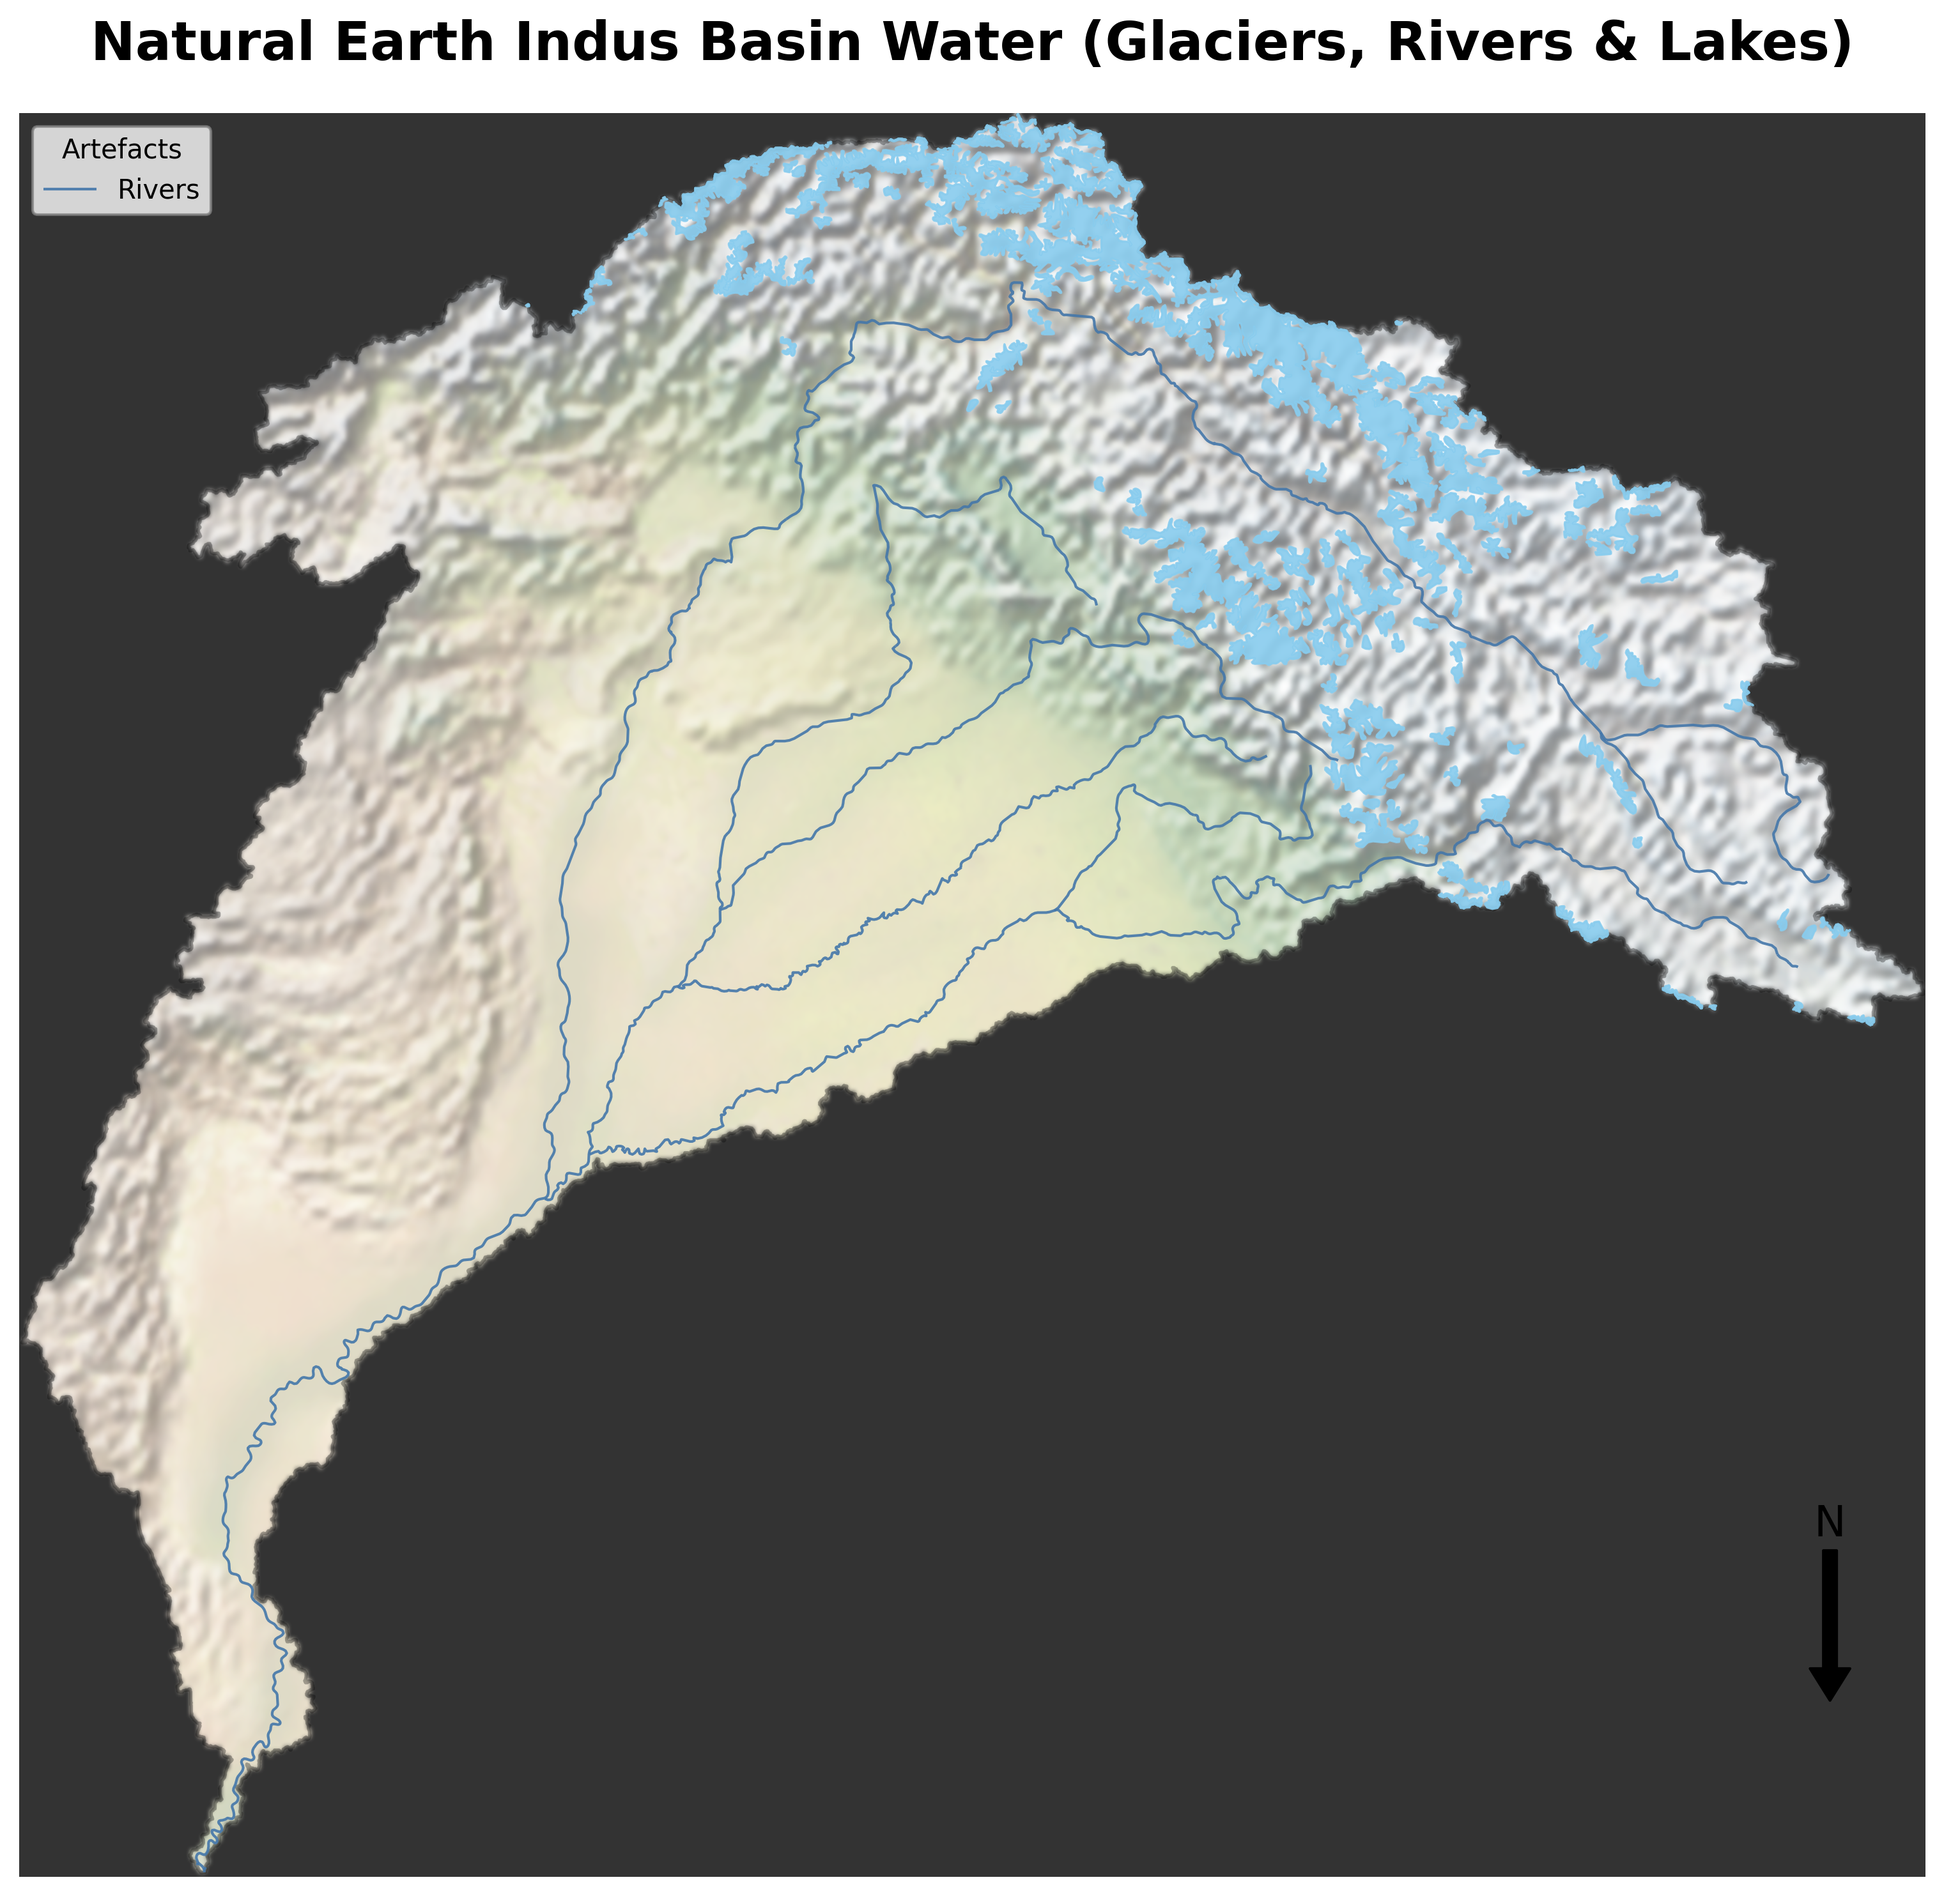
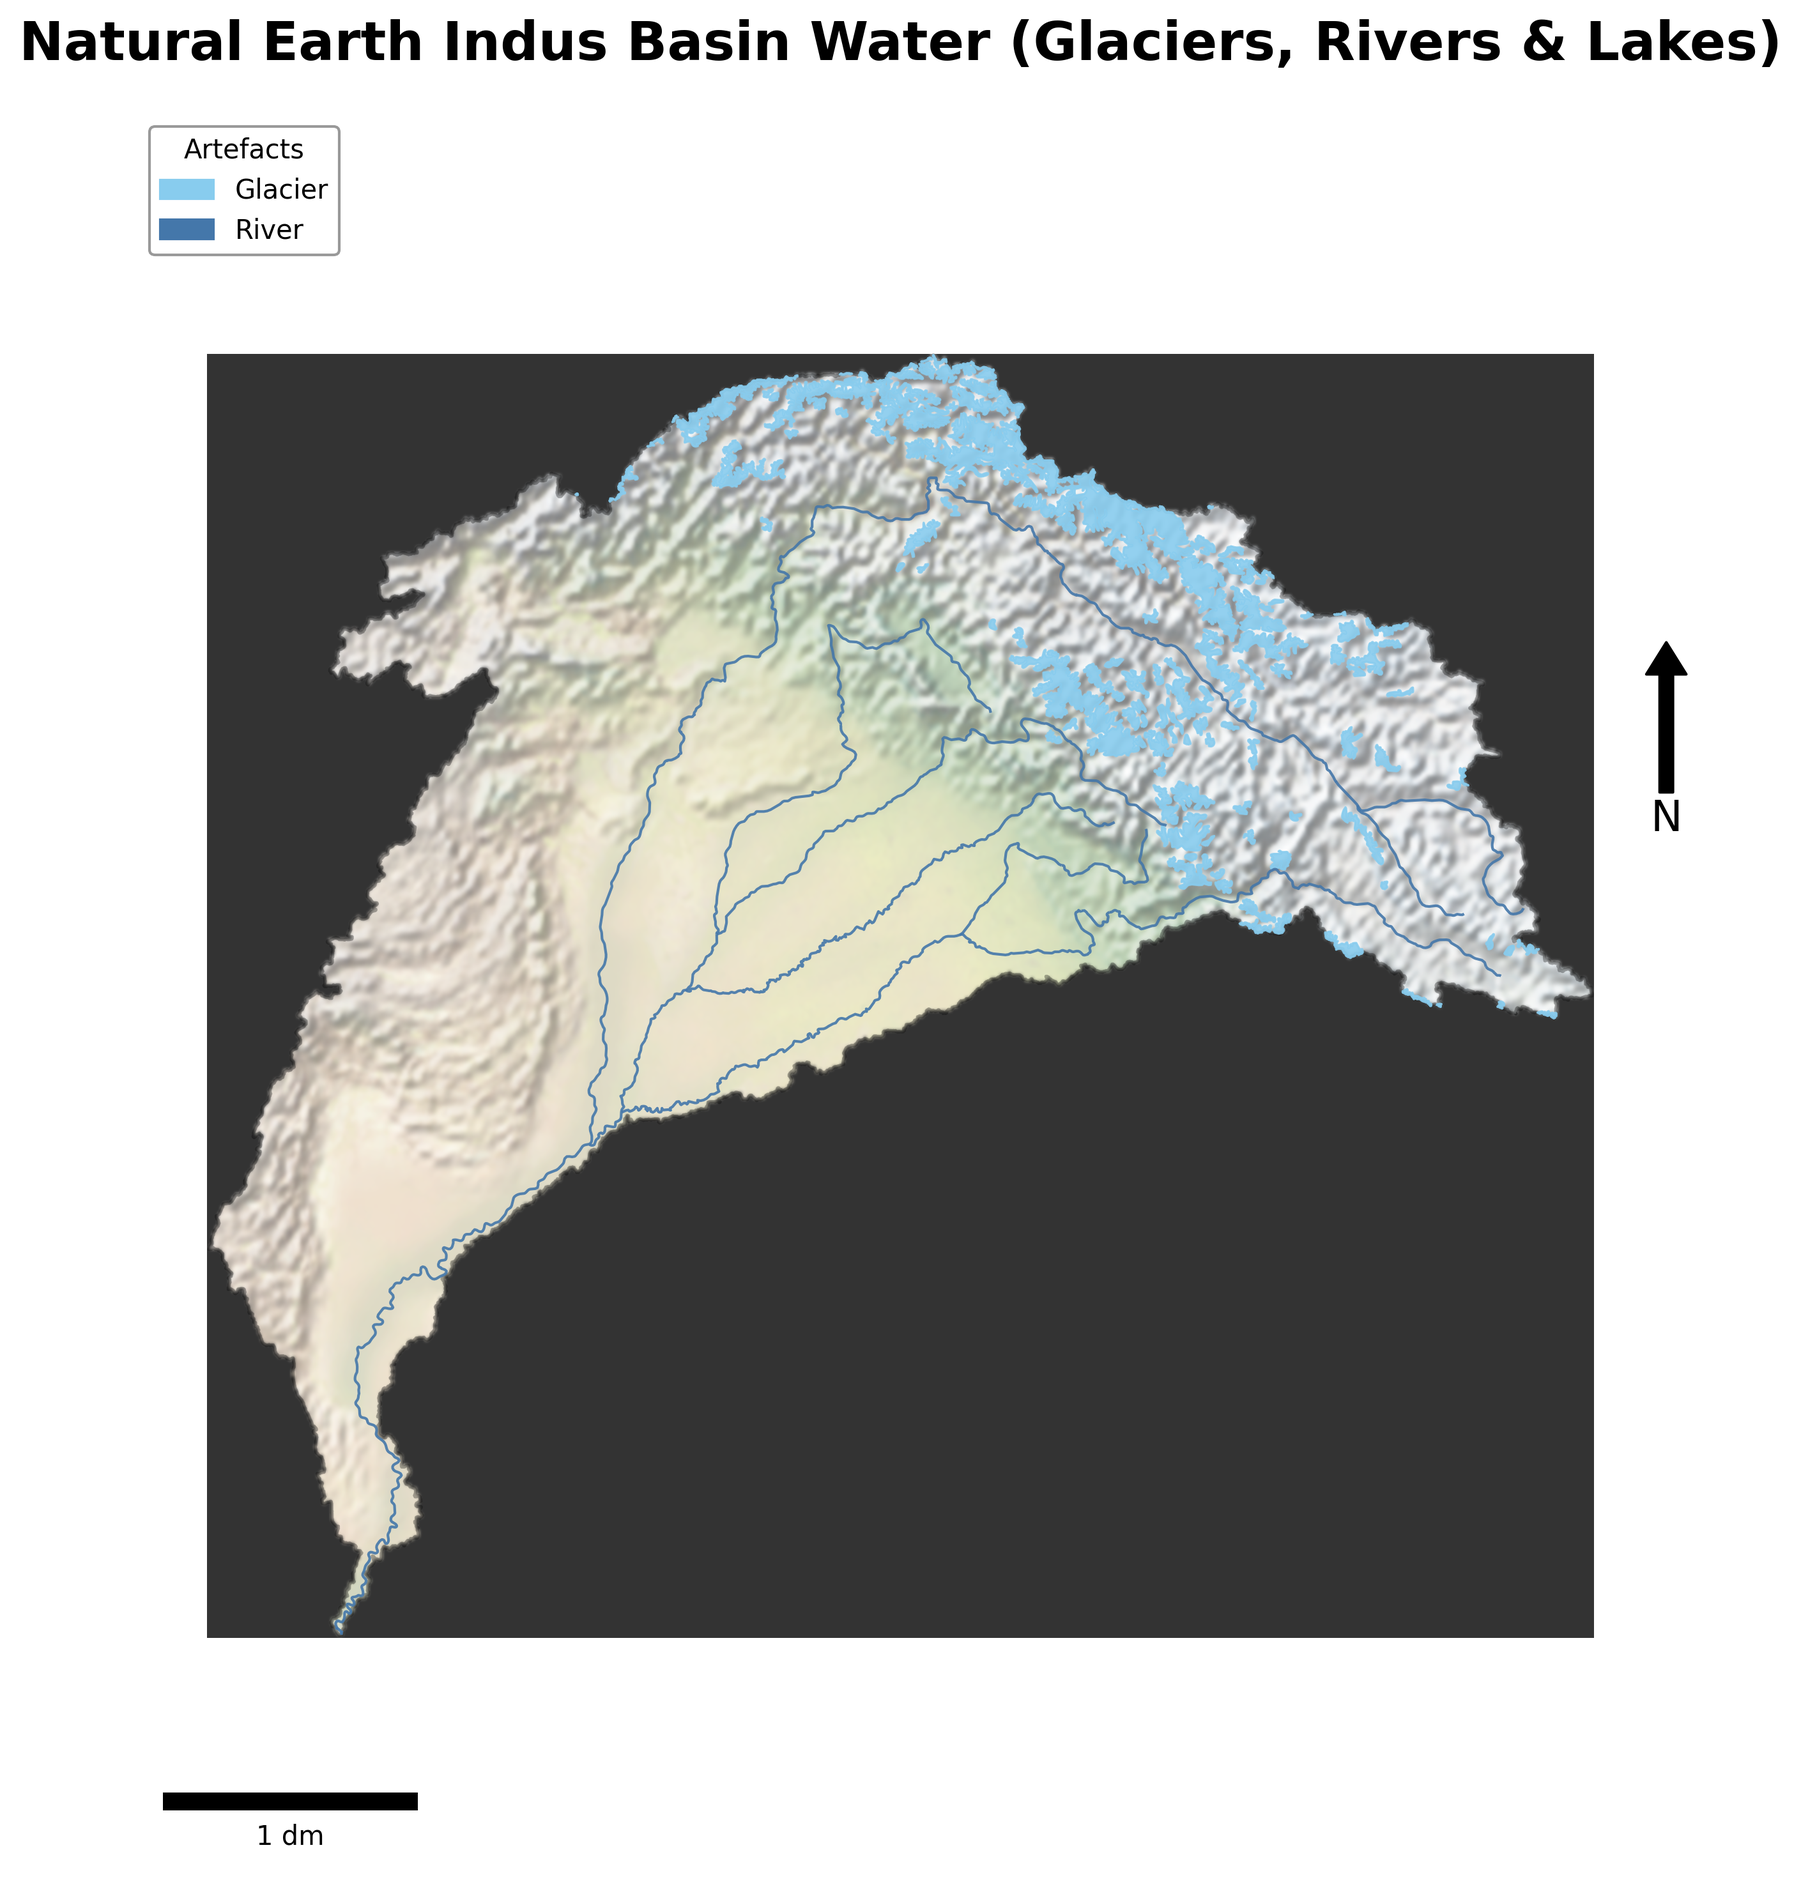
Fix d22

diff --git a/src/years/2025/d22_naturalearth/main.py b/src/years/2025/d22_naturalearth/main.py
@@ -9,6 +9,7 @@ from pyfonts import load_font
 from pypalettes import load_cmap
 import matplotlib.patheffects as path_effects
 from matplotlib.patches import Patch
+from matplotlib_scalebar.scalebar import ScaleBar
 from rasterio.mask import mask
 from branca.element import Template, MacroElement
 
@@ -88,9 +89,9 @@ def create_png(admin, glaciers_gdf, rivers_gdf, raster_arr, raster_transform, ou
       label="Rivers"
    )
 
-   # # Set limits and range from the center coordinates
-   # ax.set_xlim(center_lon - 9, center_lon + 9)
-   # ax.set_ylim(center_lat - 9, center_lat + 9)
+   # Set limits and range from the center coordinates
+   ax.set_xlim(center_lon - 9, center_lon + 9)
+   ax.set_ylim(center_lat - 9, center_lat + 9)
 
    # Add title & legend
    ax.set_title(
@@ -100,8 +101,19 @@ def create_png(admin, glaciers_gdf, rivers_gdf, raster_arr, raster_transform, ou
       pad=20
    )
 
+   # Define your color mapping for phases (for legend use, takes care of missing phases in the dataset)
+   type_color_dict = {
+      'Glacier': '#88ccee', 
+      'River': '#4477aa',
+   }
+   legend_elements = []
+   for type, color in type_color_dict.items():
+      legend_elements.append(Patch(facecolor=color, edgecolor=color,
+                                    label=f"{type}"))
+   
    # Add legend
    ax.legend(
+      handles=legend_elements,
       title="Artefacts",
       loc="upper left", # legend location
       facecolor="white",
@@ -110,19 +122,18 @@ def create_png(admin, glaciers_gdf, rivers_gdf, raster_arr, raster_transform, ou
       frameon=True
    )
 
-   #  # Add scale bar (uses matplotlib-scalebar)
-   #  scalebar = ScaleBar(
-   #      raster_transform.a, units="m", location="lower left",
-   #      pad=0.5, border_pad=0.5, color="black", frameon=True, box_alpha=0.5,
-   #  )
-   #  ax.add_artist(scalebar)
+   # Add scale bar (uses matplotlib-scalebar)
+   scalebar = ScaleBar(
+      raster_transform.a, units="m", location="lower left",
+      pad=0.5, border_pad=0.5, color="black", frameon=True, box_alpha=0.5, rotation='horizontal-only'
+   )
+   ax.add_artist(scalebar)
 
-   
    # Optional: add north arrow
    ax.annotate(
       "N",
-      xy=(0.95, 0.1),
-      xytext=(0.95, 0.2),
+      xy=(1.001, 0.7),
+      xytext=(1.001, 0.6),
       arrowprops=dict(facecolor="black", width=5, headwidth=15),
       ha="center",
       va="center",

diff --git a/src/years/2025/d23_process/main.py b/src/years/2025/d23_process/main.py
@@ -174,8 +174,8 @@ def generate_map(path_dir: str, filename: str):
 
    # Generate and save map
    output_path = f"{Path(path_dir).parent}/{filename}"
-   create_html(admin=admin_gdf, dataset=dataset, output_path=output_path)
-   create_png(admin=admin_gdf, dataset=dataset, output_path=output_path)
+   # create_html(admin=admin_gdf, dataset=dataset, output_path=output_path)
+   # create_png(admin=admin_gdf, dataset=dataset, output_path=output_path)
 
    logger.info(f"Map created – open '{filename}' to view.")
 
